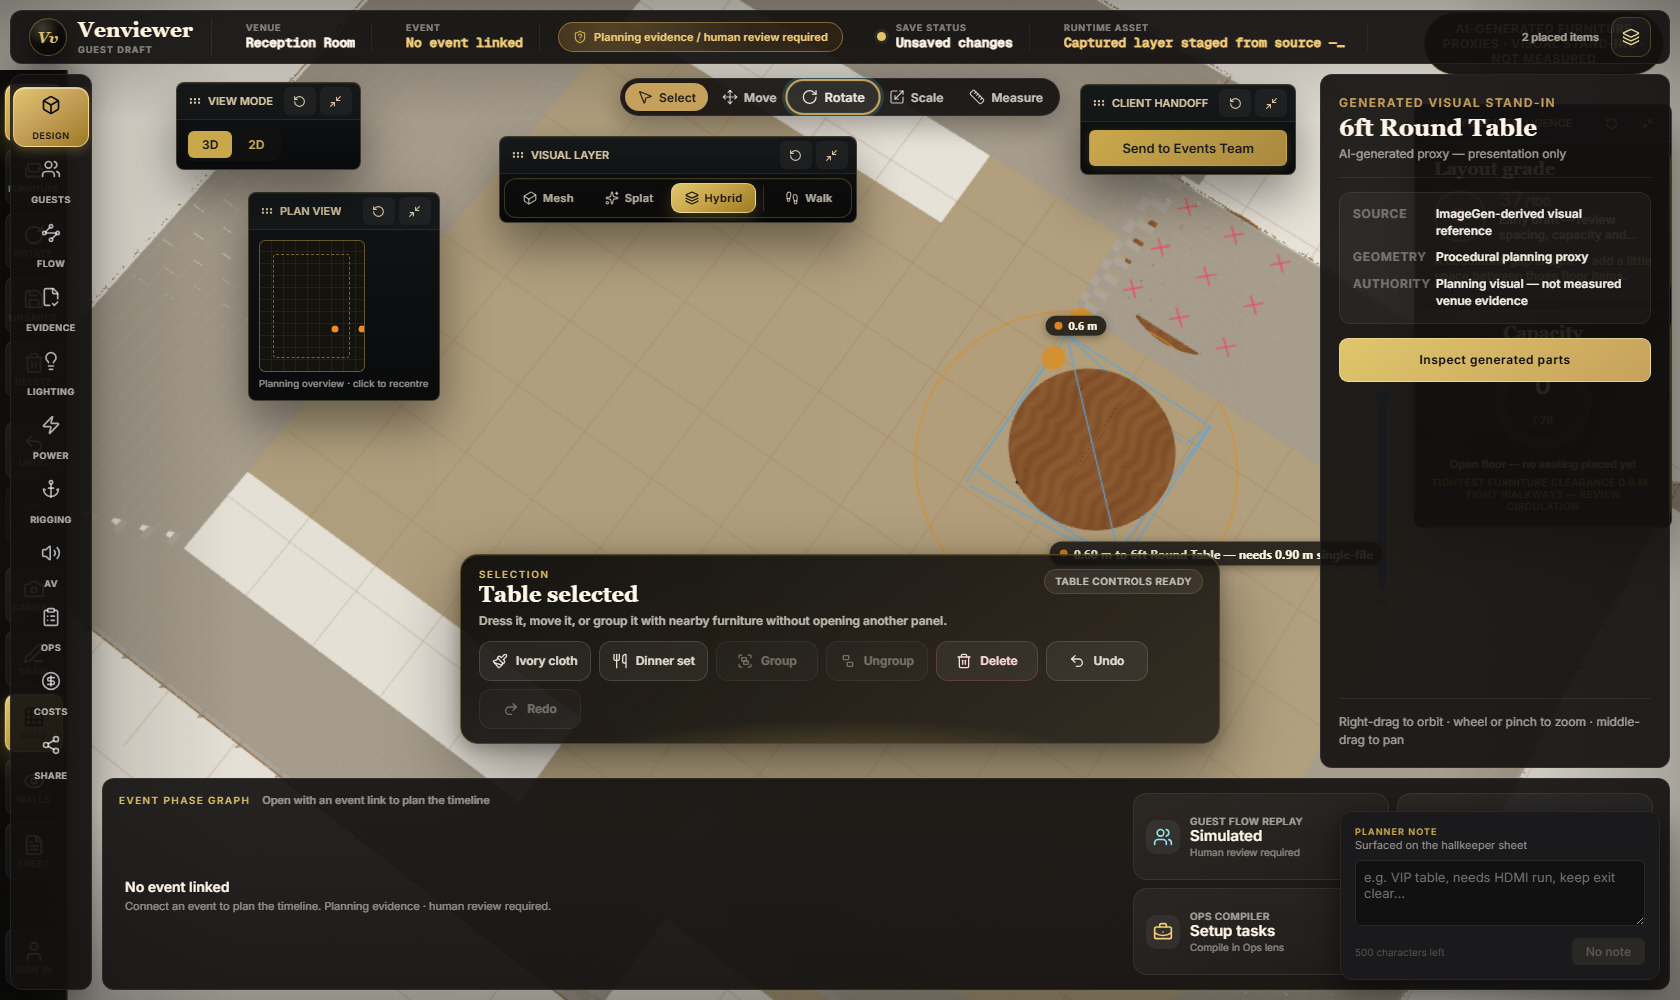
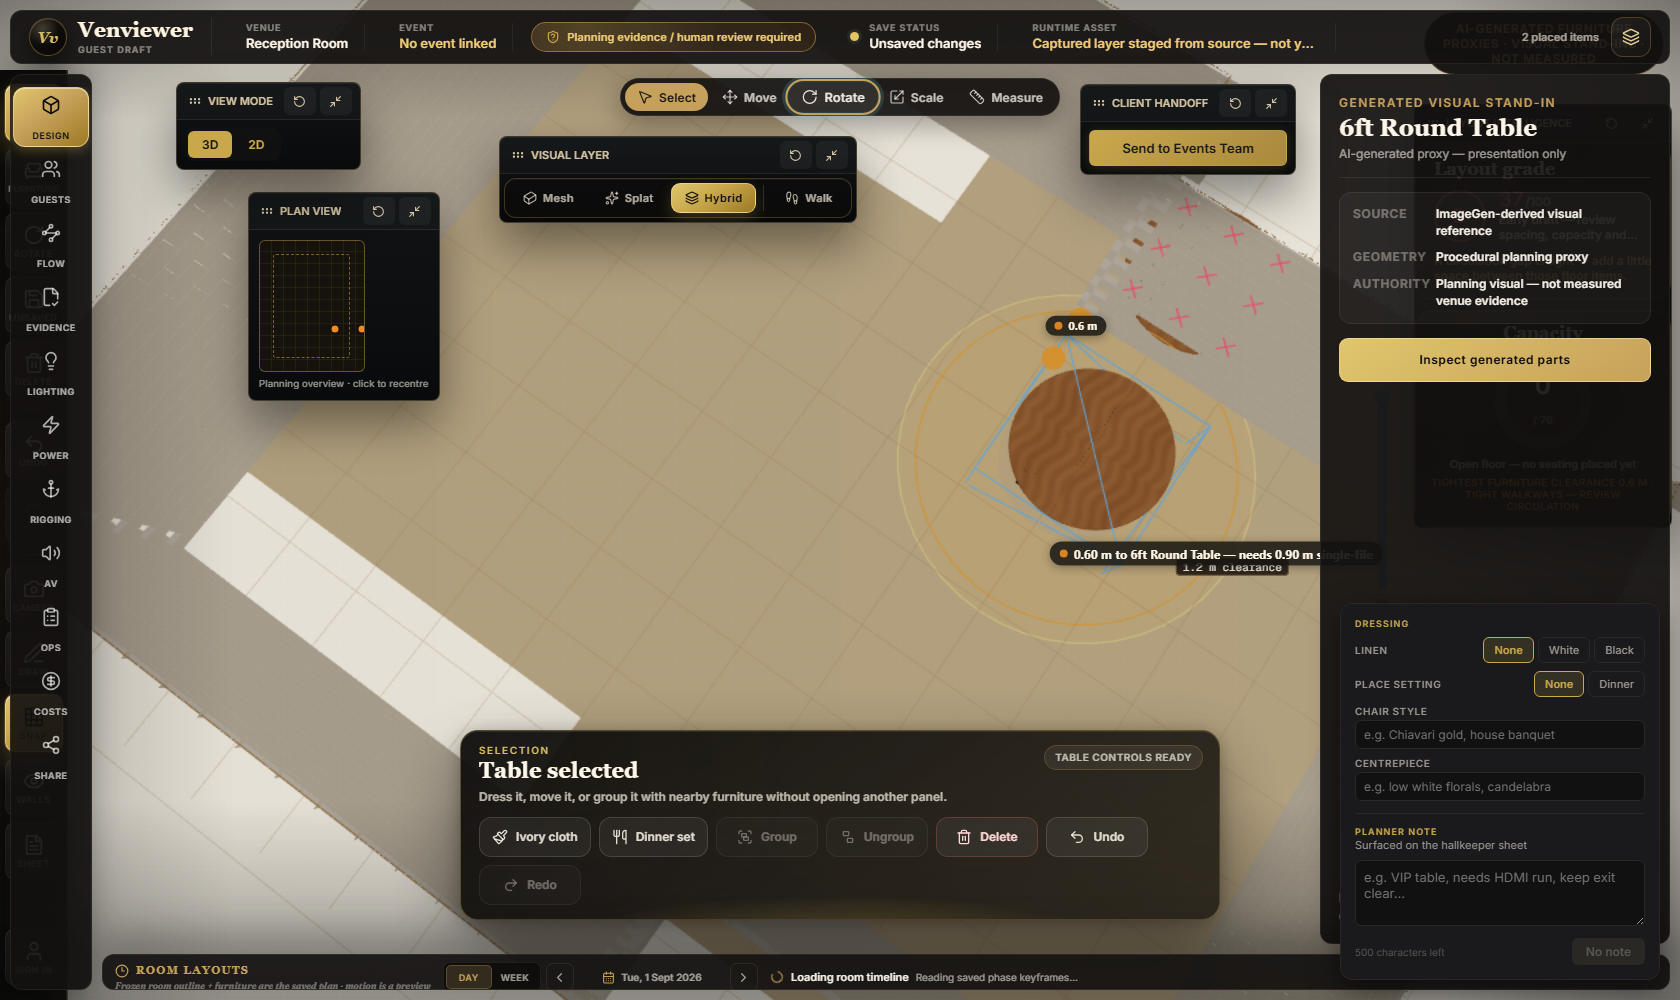
docs(state): Stage S2 settles as T-562 after the C2 merge took T-561
The unpushed T-561 claim lost the race to PR #12's renumber — master wins.
Code comments swept T-561→T-562 (the three feature commit subjects keep
their historical number; the ledger row is authoritative). Lanes reply
appended; the rebase honoured C2's preview-lock convention — the pill
hides during phase preview exactly like CanvasLayerControls. Post-rebase
verification: types build + full typecheck (src AND e2e projects) + lint
clean, 5,022 unit tests green, plan-tool-pill e2e 11.8s green with the
evidence frame refreshed.

diff --git a/packages/web/src/lib/clearance-ring.ts b/packages/web/src/lib/clearance-ring.ts
@@ -7,7 +7,7 @@
 // the single-file walkway (0.90 m), amber with a named reason when one does
 // not. (The Stage goal phrases this as "lib/egress rules"; per-table aisle
 // clearance lives in lib/circulation — lib/egress is exit-capacity maths.
-// The mapping is flagged in T-561 rather than silently reinterpreted.)
+// The mapping is flagged in T-562 rather than silently reinterpreted.)
 //
 // SAFE LANGUAGE: this is a PLANNING-GRADE circulation estimate, never a
 // legal egress route or fire-code width — same rule CirculationOverlay

diff --git a/packages/web/e2e/plan-tool-pill.spec.ts b/packages/web/e2e/plan-tool-pill.spec.ts
@@ -4,7 +4,7 @@ import { dirname, resolve } from "node:path";
 import { API, settleCockpit, stubPlannerBootstrap } from "./support/plan-bootstrap.js";
 
 // ---------------------------------------------------------------------------
-// Stage S2 — the hands (T-561).
+// Stage S2 — the hands (T-562).
 //
 // The pill's DOM state machine and the judged clearance ring, on a booted
 // cockpit with the whole backend stubbed (no live API, splat tiles 404 so the

diff --git a/docs/handoffs/COMMAND-CENTRE-LANES.md b/docs/handoffs/COMMAND-CENTRE-LANES.md
@@ -162,3 +162,25 @@ rule. Stage S2 touches: SelectionSystem.tsx, placement-store.ts,
 PlannerScene.tsx, PlannerCockpit.tsx/.css, MeasurementTool.tsx, new
 stores/tool-store.ts + lib/spring|planner-tools|clearance-ring.ts —
 shout if C2's next wave needs any of these.
+
+## App-session: C2 MERGED (PR #12 -> master 6940d409)
+
+Master is green again on Build/Test/Lint/Typecheck — this PR carried the
+fixes for the two breaks the Stage lane's direct pushes left (the
+PlannerScene GL pin and the e2e no-console). If you push to master
+again, please run `pnpm typecheck` (it covers the e2e project; a bare
+src tsc does not) and `pnpm lint` first. Next slice here: C3 slot
+messaging (booking_messages through the diary_commands ledger).
+
+## Stage-lane: S2 shipped; ledger settled as T-562
+
+Read your C2-merged note after the fact — my T-561 claim was committed but
+unpushed when you renumbered, so master's T-561 is rightly your C2. Stage
+S2 is T-562 (done): tool pill / judged clearance rings / spring settle,
+e2e plan-tool-pill.spec.ts + evidence frame in docs/evidence/stage/. On
+the rebase your preview-lock convention was honoured: the pill hides via
+`{mobile || timelinePreviewActive ? null : <ToolPill />}` exactly like
+CanvasLayerControls. Note for your C3: three commit messages say T-561 in
+their subject (e483569d-era) — the ledger row is authoritative. Also
+adopted your law: root `pnpm typecheck` before pushes (it covers the e2e
+project).
